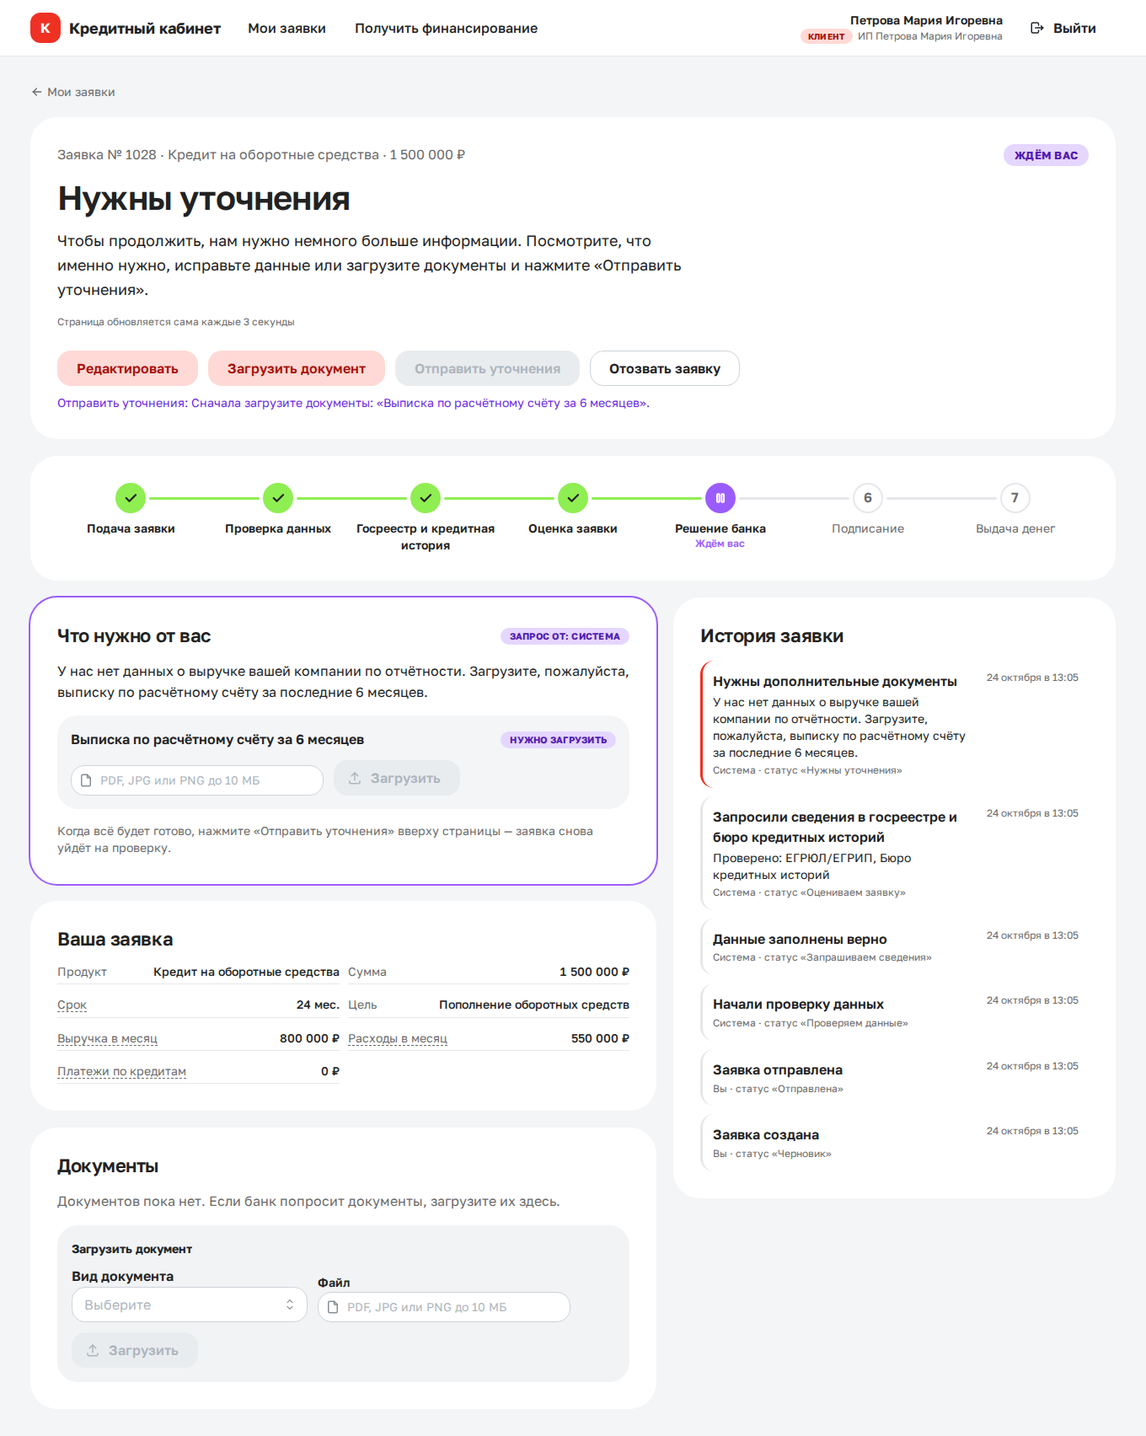
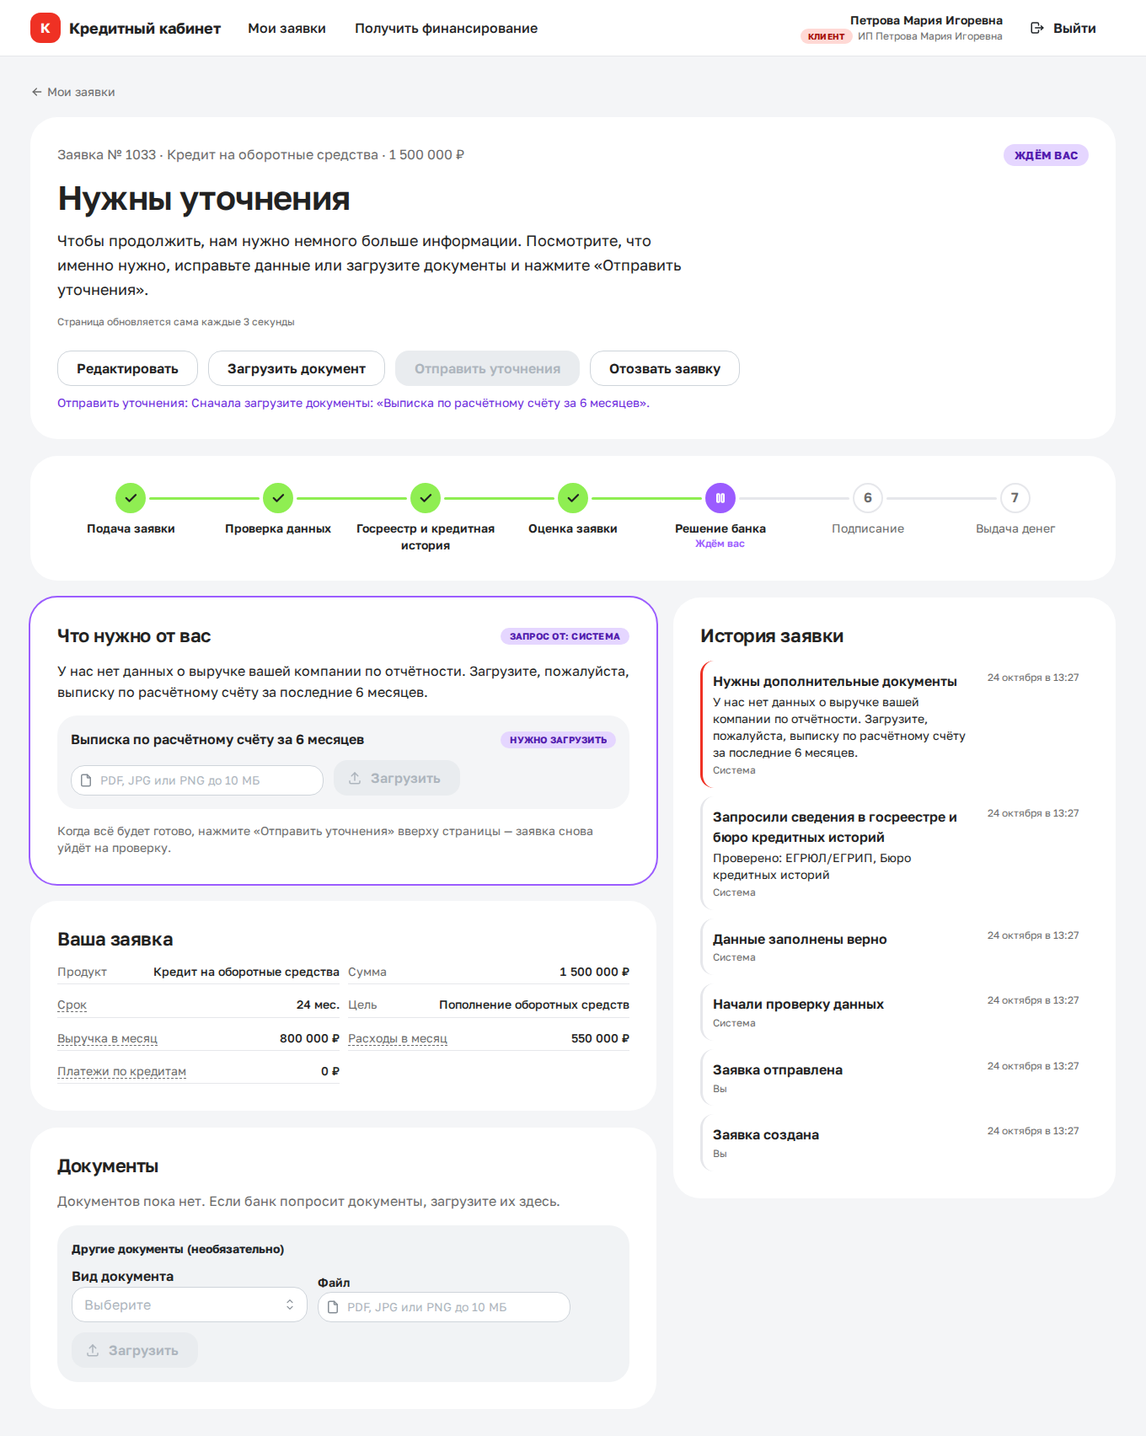
Исправления по проверке жюри в браузере: причина решения в карточке статуса, понятное объяснение встречного предложения, тексты, очередь на 768px

diff --git a/frontend/src/pages/bank/QueuePage.tsx b/frontend/src/pages/bank/QueuePage.tsx
@@ -14,6 +14,9 @@ import { useProducts } from "../client/ProductsPage";
 const PAGE_SIZE = 15;
 const GRADES = ["A", "B", "C", "D", "E"];
 
+// Бейджи в узкой таблице переносят текст, а не обрезают его многоточием
+const BADGE_NO_TRUNCATE = { root: { height: "auto", paddingBlock: 2 }, label: { whiteSpace: "normal" as const, overflow: "visible", textOverflow: "clip" } };
+
 export const GRADE_COLOR: Record<string, string> = { A: "lime", B: "lime", C: "yellow", D: "violet", E: "brand" };
 
 export function QueuePage() {
@@ -106,18 +109,18 @@ export function QueuePage() {
           {queue.isError && <ErrorState error={queue.error} onRetry={() => void queue.refetch()} />}
           {queue.data && queue.data.items.length === 0 && <EmptyState title="Заявок не найдено" text="Попробуйте убрать часть фильтров." />}
           {queue.data && queue.data.items.length > 0 && (
-            <Table.ScrollContainer minWidth={760}>
+            <Table.ScrollContainer minWidth={600}>
               <Table className="clean-table" verticalSpacing="sm" highlightOnHover={false} withRowBorders data-testid="queue-table">
                 <Table.Thead>
                   <Table.Tr>
                     <Table.Th>№</Table.Th>
                     <Table.Th>Компания</Table.Th>
-                    <Table.Th>Продукт</Table.Th>
+                    <Table.Th visibleFrom="md">Продукт</Table.Th>
                     <Table.Th ta="right">Сумма</Table.Th>
-                    <Table.Th ta="right">Срок</Table.Th>
+                    <Table.Th ta="right" visibleFrom="lg">Срок</Table.Th>
                     <Table.Th>Статус</Table.Th>
                     <Table.Th>Грейд</Table.Th>
-                    <Table.Th>Обновлена</Table.Th>
+                    <Table.Th visibleFrom="lg">Обновлена</Table.Th>
                   </Table.Tr>
                 </Table.Thead>
                 <Table.Tbody>
@@ -141,21 +144,21 @@ export function QueuePage() {
                           ИНН {item.company_inn}
                         </Text>
                       </Table.Td>
-                      <Table.Td>{item.product.name}</Table.Td>
+                      <Table.Td visibleFrom="md">{item.product.name}</Table.Td>
                       <Table.Td ta="right" className="num">
                         {money(item.amount, true)}
                       </Table.Td>
-                      <Table.Td ta="right" className="num">
+                      <Table.Td ta="right" className="num" visibleFrom="lg">
                         {months(item.term_months)}
                       </Table.Td>
                       <Table.Td>
-                        <Badge variant="light" color={item.status === "MANUAL_REVIEW" ? "brand" : "gray"}>
+                        <Badge variant="light" color={item.status === "MANUAL_REVIEW" ? "brand" : "gray"} styles={BADGE_NO_TRUNCATE}>
                           {item.status_label}
                         </Badge>
                       </Table.Td>
                       <Table.Td>
                         {item.grade ? (
-                          <Badge color={GRADE_COLOR[item.grade] ?? "gray"} variant="light">
+                          <Badge color={GRADE_COLOR[item.grade] ?? "gray"} variant="light" styles={BADGE_NO_TRUNCATE}>
                             {item.grade} · {item.score}
                           </Badge>
                         ) : (
@@ -164,7 +167,7 @@ export function QueuePage() {
                           </Text>
                         )}
                       </Table.Td>
-                      <Table.Td>
+                      <Table.Td visibleFrom="lg">
                         <Text size="sm" c={COLORS.textSecondary}>
                           {dateTime(item.updated_at)}
                         </Text>

diff --git a/frontend/src/pages/client/ApplicationPage.tsx b/frontend/src/pages/client/ApplicationPage.tsx
@@ -3,7 +3,7 @@
  * Пока заявка не в финальном статусе, она опрашивается каждые 3 секунды: статус, шкала этапов и история
  * обновляются на глазах, без перезагрузки страницы.
  */
-import { Anchor, Badge, Box, Card, Grid, Group, SimpleGrid, Stack, Text, Title } from "@mantine/core";
+import { Alert, Anchor, Badge, Box, Card, Grid, Group, SimpleGrid, Stack, Text, Title } from "@mantine/core";
 import { IconArrowLeft } from "@tabler/icons-react";
 import { useQuery } from "@tanstack/react-query";
 import { Link, useParams } from "react-router-dom";
@@ -36,6 +36,16 @@ function currentState(application: Application): { state: string; label: string 
   const step = application.progress.find((item) => item.state !== "done" && item.state !== "upcoming");
   if (step) return { state: step.state, label: step.state_label };
   return application.is_final ? { state: "done", label: "Готово" } : null;
+}
+
+/**
+ * Последнее пояснение банка, которое важно показать сразу под статусом: причина отказа или комментарий специалиста.
+ * Для остальных статусов пояснения уже есть в отдельных блоках (предложение, запрос уточнений).
+ */
+function latestBankMessage(application: Application): string | null {
+  if (application.status !== "REJECTED" && application.status !== "MANUAL_REVIEW") return null;
+  const last = application.timeline[application.timeline.length - 1];
+  return last?.status === application.status ? (last.comment ?? null) : null;
 }
 
 const STATE_COLOR: Record<string, string> = { current: "brand", action: "violet", stopped: "gray", done: "lime" };
@@ -110,6 +120,11 @@ export function ApplicationPage() {
           <Text size="lg" maw={760} data-testid="status-description">
             {application.status_description}
           </Text>
+          {latestBankMessage(application) && (
+            <Alert color={application.status === "REJECTED" ? "gray" : "violet"} radius="lg" title="Сообщение банка" maw={760} data-testid="bank-message">
+              {latestBankMessage(application)}
+            </Alert>
+          )}
           {!application.is_final && (
             <Text size="xs" c={COLORS.textSecondary}>
               Страница обновляется сама каждые 3 секунды

diff --git a/frontend/src/components/application/DocumentsBlock.tsx b/frontend/src/components/application/DocumentsBlock.tsx
@@ -75,6 +75,8 @@ export function DocumentsBlock({ application }: { application: Application }) {
     queryKey: ["documents", application.id, application.documents_count],
     queryFn: () => call(api.GET("/api/v1/applications/{application_id}/documents", { params: { path: { application_id: application.id } } })),
   });
+  // Если банк попросил конкретные документы, загрузка — в блоке «Что нужно от вас»; здесь — только для прочих файлов
+  const requestedDocuments = (application.info_request?.documents.length ?? 0) > 0;
   const canUpload = application.available_actions.some((action) => action.code === "upload_document" && action.enabled);
 
   return (
@@ -114,7 +116,7 @@ export function DocumentsBlock({ application }: { application: Application }) {
           </Group>
         ))}
         {canUpload && (
-          <Alert color="gray" radius="lg" variant="light" title="Загрузить документ">
+          <Alert color="gray" radius="lg" variant="light" title={requestedDocuments ? "Другие документы (необязательно)" : "Загрузить документ"}>
             <UploadForm application={application} />
           </Alert>
         )}

diff --git a/frontend/src/components/application/ActionBar.tsx b/frontend/src/components/application/ActionBar.tsx
@@ -48,7 +48,7 @@ export function ActionBar({ application }: { application: Application }) {
     <>
       <Group gap="sm" data-testid="actions">
         {actions.map((action) => {
-          const variant = action === primary ? "filled" : QUIET_ACTIONS.has(action.code) ? "default" : "light";
+          const variant = action === primary ? "filled" : NAVIGATION_ACTIONS.has(action.code) || QUIET_ACTIONS.has(action.code) ? "default" : "light";
           const button = (
             <Button
               key={action.code}
@@ -102,7 +102,7 @@ export function ActionBar({ application }: { application: Application }) {
               Назад
             </Button>
             <Button
-              color={confirming && QUIET_ACTIONS.has(confirming.code) ? "gray" : "brand"}
+              color={confirming && QUIET_ACTIONS.has(confirming.code) ? "dark" : "brand"}
               loading={mutation.isPending}
               disabled={Boolean(confirming?.requires_comment && !comment.trim())}
               onClick={() => {

diff --git a/frontend/src/pages/client/ApplicationFormPage.tsx b/frontend/src/pages/client/ApplicationFormPage.tsx
@@ -138,6 +138,13 @@ export function ApplicationFormPage() {
   }, [existing.data, loadedId]);
 
   const product = products.data?.find((item) => item.code === form.product_code);
+
+  // Если продукту подходит ровно одна цель, а цель не выбрана — подставляем её, чтобы не спрашивать очевидное
+  useEffect(() => {
+    if (product && !form.purpose_code && product.purposes.length === 1) {
+      setForm((current) => ({ ...current, purpose_code: product.purposes[0].code }));
+    }
+  }, [product, form.purpose_code]);
   const purposeOptions = (purposes.data ?? []).filter((item) => !product || product.purposes.some((purpose) => purpose.code === item.code));
   const selectedPurpose = purposes.data?.find((item) => item.code === form.purpose_code);
   const application = existing.data;

diff --git a/frontend/src/pages/bank/BankApplicationPage.tsx b/frontend/src/pages/bank/BankApplicationPage.tsx
@@ -22,11 +22,11 @@ type BankApplication = Schemas["BackofficeApplicationOut"];
 
 function Field({ label, value }: { label: ReactNode; value: ReactNode }) {
   return (
-    <Group justify="space-between" wrap="nowrap" py={5} style={{ borderBottom: `1px solid ${COLORS.border}` }}>
-      <Text size="sm" c={COLORS.textSecondary}>
+    <Group justify="space-between" wrap="nowrap" align="flex-start" py={5} style={{ borderBottom: `1px solid ${COLORS.border}` }}>
+      <Text size="sm" c={COLORS.textSecondary} style={{ flexShrink: 0 }}>
         {label}
       </Text>
-      <Text size="sm" fw={500} ta="right" className="num">
+      <Text size="sm" fw={500} ta="right" style={{ overflowWrap: "anywhere" }}>
         {value ?? "—"}
       </Text>
     </Group>

diff --git a/frontend/src/components/application/OfferCard.tsx b/frontend/src/components/application/OfferCard.tsx
@@ -96,9 +96,11 @@ export function OfferCard({ application }: { application: Application }) {
             {explanation}
           </Alert>
         )}
-        <Text size="sm" c={COLORS.textSecondary}>
-          Предложение действует до {dateTime(offer.valid_until)}.
-        </Text>
+        {offer.status === "active" && (
+          <Text size="sm" c={COLORS.textSecondary}>
+            Предложение действует до {dateTime(offer.valid_until)}.
+          </Text>
+        )}
       </Stack>
     </Card>
   );

diff --git a/frontend/src/components/Timeline.tsx b/frontend/src/components/Timeline.tsx
@@ -39,7 +39,7 @@ export function Timeline({ items }: { items: Item[] }) {
               <Text fw={600}>{item.title}</Text>
               {item.comment && <Text size="sm">{item.comment}</Text>}
               <Text size="xs" c={COLORS.textSecondary}>
-                {item.actor} · статус «{item.status_label}»
+                {item.actor}
               </Text>
             </Stack>
             <Text size="xs" c={COLORS.textSecondary} style={{ whiteSpace: "nowrap" }}>

diff --git a/backend/app/domain/decision.py b/backend/app/domain/decision.py
@@ -15,7 +15,7 @@ from dataclasses import dataclass, field
 from decimal import ROUND_DOWN, Decimal
 
 from app.core.business_config import DecisionFile
-from app.domain.formatting import format_percent
+from app.domain.formatting import format_money, format_percent
 from app.domain.payments import annuity_payment, max_amount_for_payment
 from app.domain.scoring import ScoringFacts
 from app.models.offer import OFFER_AS_REQUESTED, OFFER_COUNTER
@@ -170,7 +170,14 @@ def make_decision(data: DecisionInput, config: DecisionFile, reason_texts: dict[
         amount_share = rule.amount_share
         reasons.append(reason("grade_counter_offer", share=format_percent(rule.amount_share * 100)))
     if too_much_debt:
-        reasons.append(reason("high_debt_load", dti=round(dti * 100), max_dti=format_percent(config.max_debt_to_income * 100)))
+        reasons.append(
+            reason(
+                "high_debt_load",
+                dti=round(dti * 100),
+                max_dti=format_percent(config.max_debt_to_income * 100),
+                current_payments=format_money(data.facts.current_loan_payments),
+            )
+        )
 
     if not reasons:
         return Decision(

diff --git a/docs/PROGRESS.md b/docs/PROGRESS.md
@@ -167,6 +167,11 @@
 - Мок ФНС «Прозрачный бизнес» (налоговая нагрузка, среднесписочная численность) как ещё один фактор скоринга.
 - PDF-версия договора (сейчас HTML, чтобы не добавлять зависимости).
 - Поиск в очереди сотрудника по названию компании и ИНН.
+- Подбор продукта: при равных баллах ставить выше продукт с меньшей ставкой и пометить «выгоднее» (сейчас первым может
+  идти более дорогой «Экспресс-кредит»).
+- Шкала этапов: при сбое БКИ отмечать этап «Госреестр и кредитная история» как «с проблемой», а не зелёной галочкой
+  (нужно новое состояние в `progress`).
+- В истории сотрудника показывать названия статусов вместо кодов (`SCORING → MANUAL_REVIEW`).
 
 
 # Фронтенд
@@ -186,7 +191,7 @@
 - [x] 6. Подсказки по терминам (один файл), состояния загрузки/пустоты/ошибок, полировка текстов
 - [x] 7. Playwright E2E: 6 учёток клиента, ручное рассмотрение (сотрудник → клиент), запрос уточнений
 - [x] 8. Документация: README (фронт), architecture, THIRD_PARTY_NOTICES, CLAUDE.md, скриншоты `docs/screenshots/`
-- [ ] 9. Проверка субагентом-«жюри» в браузере, исправления
+- [x] 9. Проверка субагентом-«жюри» в браузере, исправления
 
 ## Журнал этапов фронтенда
 
@@ -222,3 +227,16 @@
   `data-number`; поведение интерфейса не менялось.
 - Скриншоты 10 ключевых экранов — `docs/screenshots/` (`--grep @screenshots`). README (раздел «Как проверить в браузере»),
   `docs/test-scenarios.md`, `docs/architecture.md`, `THIRD_PARTY_NOTICES.md`, `CLAUDE.md` обновлены.
+
+### Этап 9 — проверка субагентом-«жюри» в браузере (готово)
+Поднял всё с нуля по README, прошёл все сценарии в Playwright со скриншотами: критичных проблем нет, исходы верные,
+кнопки/суммы/этапы совпадают с API, решение сотрудника доходит до клиента ~за секунду, тесты зелёные. Исправлено:
+- текст статуса «Кредит выдан» обещал график платежей в договоре, которого нет → текст исправлен (`labels.yaml`);
+- объяснение встречного предложения не говорило, откуда нагрузка при «0 ₽» в анкете → теперь называет платежи по данным
+  бюро и что ставка выше с учётом риска (`labels.yaml` + подстановка `current_payments` в `domain/decision.py`);
+- причина отказа и комментарий специалиста теперь прямо в карточке статуса («Сообщение банка»), а не только в истории;
+- экран «Нужны уточнения»: кнопки-переходы спокойные, вторая форма загрузки подписана «Другие документы (необязательно)»;
+- очередь на 768px: второстепенные колонки скрываются, бейджи не обрезаются; длинные значения в карточке переносятся;
+- «Действует до» — только у действующего предложения; у продукта с одной целью цель подставляется сама;
+  событие «Уточнения отправлены в банк» вместо «Вы отправили…» (видно и сотруднику); кнопка в диалоге отказа заметнее.
+Тесты после исправлений: бэкенд 183, интерфейс 12 — зелёные.

diff --git a/docs/test-scenarios.md b/docs/test-scenarios.md
@@ -107,8 +107,9 @@
 | Ожидаемый итог | `OFFER_SENT`, предложение `counter_offer` |
 
 Итог: `offer.offer_type: counter_offer`, `offer_type_label: "На изменённых условиях"`, `amount: 1050000`,
-`term_months: 24`, `rate: 21.5`. Комментарий в истории объясняет почему: «по результатам оценки можем предложить до 70%
-от запрошенной суммы; платежи по кредитам заняли бы 51% выручки при допустимых 50%. Предлагаем: 1 050 000 ₽ на 24 мес. под 21,5% годовых.»
+`term_months: 24`, `rate: 21.5`. Комментарий в истории объясняет почему: «По результатам оценки риска можем предложить до 70% от запрошенной суммы, ставка выше базовой с учётом риска;
+по данным бюро кредитных историй компания уже платит по кредитам 330 000 ₽ в месяц; вместе с новым кредитом платежи
+заняли бы 51% выручки при допустимых 50%. Предлагаем: 1 050 000 ₽ на 24 мес. под 21,5% годовых.»
 
 Дальше можно `decline_offer` (тело `{"comment": "Нужна вся сумма"}`) → `CLIENT_DECLINED`, или принять и подписать.
 
